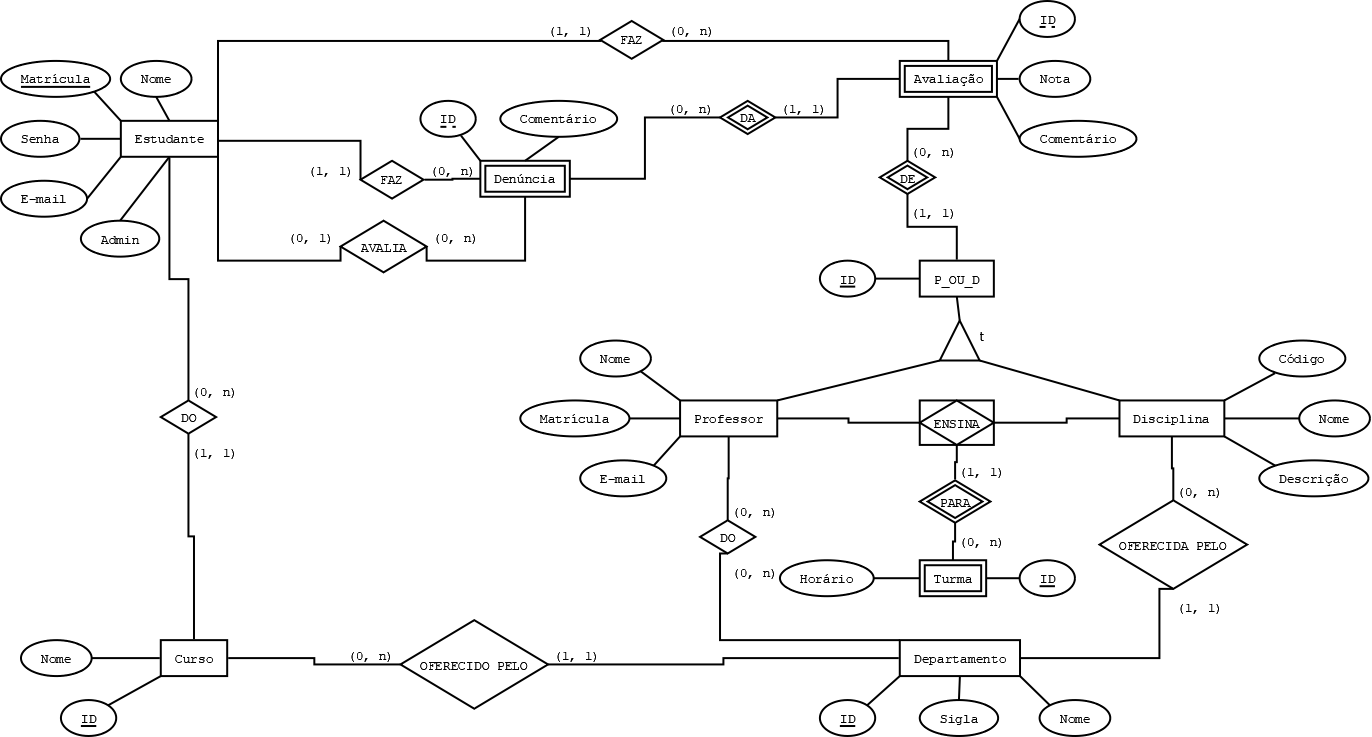
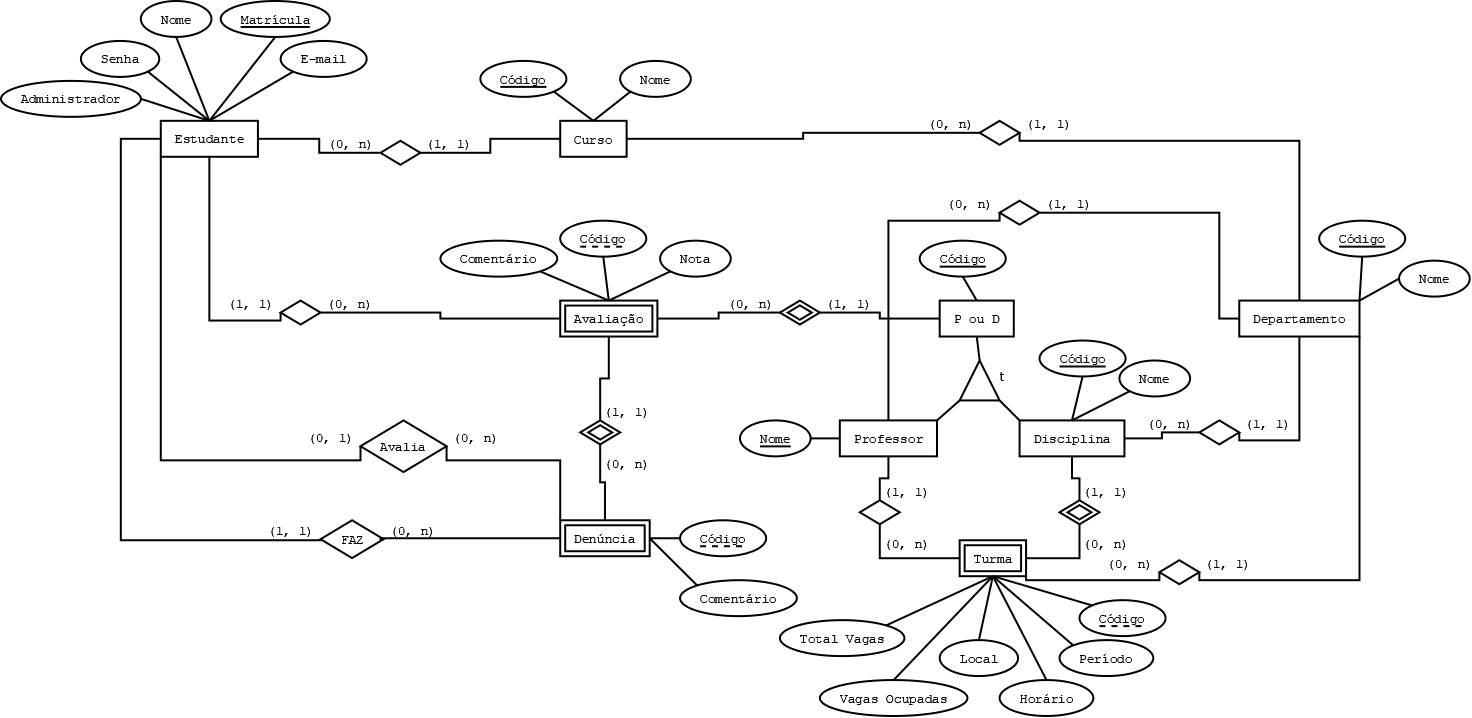
Updated models

diff --git a/src/main/kotlin/me/hrrocha0/avaliaunb/models/data/PouDDAO.kt b/src/main/kotlin/me/hrrocha0/avaliaunb/models/data/PouDDAO.kt
@@ -1,13 +1,13 @@
 package me.hrrocha0.avaliaunb.models.data
 
-import me.hrrocha0.avaliaunb.models.PouDModel
+import me.hrrocha0.avaliaunb.models.ProfessorOuDisciplinaModel
 import java.sql.ResultSet
 
-object PouDDAO : ReadWriteDAO<PouDModel> {
-    override fun create(model: PouDModel) = try {
+object PouDDAO : ReadWriteDAO<ProfessorOuDisciplinaModel> {
+    override fun create(model: ProfessorOuDisciplinaModel) = try {
         val sql = """
             INSERT INTO PouD
-            VALUES (${model.id})
+            VALUES (${model.codigo})
         """.trimIndent()
 
         executeSql(sql)
@@ -27,8 +27,8 @@ object PouDDAO : ReadWriteDAO<PouDModel> {
         null
     }
 
-    override fun update(model: PouDModel) = try {
-        val pouD = read(model.id.toString())
+    override fun update(model: ProfessorOuDisciplinaModel) = try {
+        val pouD = read(model.codigo.toString())
 
         // Update does nothing to PouD
         pouD
@@ -49,15 +49,15 @@ object PouDDAO : ReadWriteDAO<PouDModel> {
         null
     }
 
-    override fun index(predicate: (PouDModel) -> Boolean) = try {
+    override fun index(predicate: (ProfessorOuDisciplinaModel) -> Boolean) = try {
         val sql = "SELECT * FROM PouD"
         executeSql(sql).filter(predicate)
     } catch (e: Exception) {
         listOf()
     }
 
-    override fun transform(resultSet: ResultSet): PouDModel {
+    override fun transform(resultSet: ResultSet): ProfessorOuDisciplinaModel {
         val id = resultSet.getInt("id")
-        return PouDModel(id)
+        return ProfessorOuDisciplinaModel(id)
     }
 }

diff --git a/src/main/kotlin/me/hrrocha0/avaliaunb/models/data/DenunciaDAO.kt b/src/main/kotlin/me/hrrocha0/avaliaunb/models/data/DenunciaDAO.kt
@@ -7,7 +7,7 @@ object DenunciaDAO : ReadWriteDAO<DenunciaModel> {
     override fun create(model: DenunciaModel) = try {
         val sql = """
             INSERT INTO Denuncia
-            VALUES (${model.idPouD}, ${model.idAvaliacao}, ${model.id}, '${model.comentario}', '${model.matriculaEstudante}', '${model.matriculaAvaliador}')
+            VALUES (${model.codigoPouD}, ${model.codigoAvaliacao}, ${model.codigo}, '${model.comentario}', '${model.matriculaEstudante}', '${model.matriculaAdministrador}')
         """.trimIndent()
 
         executeSql(sql)
@@ -33,10 +33,10 @@ object DenunciaDAO : ReadWriteDAO<DenunciaModel> {
             UPDATE Denuncia
             SET comentario = '${model.comentario}',
                 matricula_estudante = '${model.matriculaEstudante}',
-                matricula_avaliador = '${model.matriculaAvaliador}'
-            WHERE id_p_ou_d = ${model.idPouD} AND id_avaliacao = ${model.idAvaliacao} AND id = ${model.id} 
+                matricula_avaliador = '${model.matriculaAdministrador}'
+            WHERE id_p_ou_d = ${model.codigoPouD} AND id_avaliacao = ${model.codigoAvaliacao} AND id = ${model.codigo} 
         """.trimIndent()
-        val denuncia = read("${model.idPouD},${model.idAvaliacao},${model.id}")
+        val denuncia = read("${model.codigoPouD},${model.codigoAvaliacao},${model.codigo}")
 
         executeSql(sql)
         denuncia

diff --git a/src/main/kotlin/me/hrrocha0/avaliaunb/models/data/EstudanteDAO.kt b/src/main/kotlin/me/hrrocha0/avaliaunb/models/data/EstudanteDAO.kt
@@ -7,7 +7,7 @@ object EstudanteDAO : ReadWriteDAO<EstudanteModel> {
     override fun create(model: EstudanteModel) = try {
         val sql = """
             INSERT INTO Estudante
-            VALUES ('${model.matricula}', '${model.nome}', '${model.email}', '${model.senha}', ${if (model.admin) 1 else 0}, ${model.idCurso})
+            VALUES ('${model.matricula}', '${model.nome}', '${model.email}', '${model.senha}', ${if (model.administrador) 1 else 0}, ${model.codigoCurso})
         """.trimIndent()
 
         executeSql(sql)
@@ -33,8 +33,8 @@ object EstudanteDAO : ReadWriteDAO<EstudanteModel> {
             SET nome = '${model.nome}',
                 email = '${model.email}',
                 senha = '${model.senha}',
-                admin = ${if (model.admin) 1 else 0},
-                id_curso = ${model.idCurso}
+                admin = ${if (model.administrador) 1 else 0},
+                id_curso = ${model.codigoCurso}
             WHERE matricula = '${model.matricula}' 
         """.trimIndent()
         val estudante = read(model.matricula)

diff --git a/src/main/kotlin/me/hrrocha0/avaliaunb/models/data/AvaliacaoDAO.kt b/src/main/kotlin/me/hrrocha0/avaliaunb/models/data/AvaliacaoDAO.kt
@@ -7,7 +7,7 @@ object AvaliacaoDAO : ReadWriteDAO<AvaliacaoModel> {
     override fun create(model: AvaliacaoModel) = try {
         val sql = """
             INSERT INTO Avaliacao
-            VALUES (${model.idPouD}, ${model.id}, ${model.nota}, '${model.comentario}', '${model.matriculaEstudante}')
+            VALUES (${model.codigoPouD}, ${model.codigo}, ${model.nota}, '${model.comentario}', '${model.matriculaEstudante}')
         """.trimIndent()
 
         executeSql(sql)
@@ -34,9 +34,9 @@ object AvaliacaoDAO : ReadWriteDAO<AvaliacaoModel> {
             SET nota = ${model.nota},
                 comentario = '${model.comentario}',
                 matricula_estudante = '${model.matriculaEstudante}'
-            WHERE id_p_ou_d = ${model.idPouD} AND id = ${model.id} 
+            WHERE id_p_ou_d = ${model.codigoPouD} AND id = ${model.codigo} 
         """.trimIndent()
-        val avaliacao = read("${model.idPouD},${model.id}")
+        val avaliacao = read("${model.codigoPouD},${model.codigo}")
 
         executeSql(sql)
         avaliacao

diff --git a/src/main/kotlin/me/hrrocha0/avaliaunb/models/data/DisciplinaDAO.kt b/src/main/kotlin/me/hrrocha0/avaliaunb/models/data/DisciplinaDAO.kt
@@ -7,7 +7,7 @@ object DisciplinaDAO : ReadWriteDAO<DisciplinaModel> {
     override fun create(model: DisciplinaModel) = try {
         val sql = """
             INSERT INTO Disciplina
-            VALUES (${model.id}, '${model.codigo}', '${model.nome}', '${model.descricao}', ${model.idDepartamento})
+            VALUES (${model.id}, '${model.codigo}', '${model.nome}', '${model.descricao}', ${model.codigoDepto})
         """.trimIndent()
 
         executeSql(sql)
@@ -33,7 +33,7 @@ object DisciplinaDAO : ReadWriteDAO<DisciplinaModel> {
             SET codigo = '${model.codigo}',
                 nome = '${model.nome}',
                 descricao = '${model.descricao}',
-                id_departamento = ${model.idDepartamento}
+                id_departamento = ${model.codigoDepto}
             WHERE id = ${model.id} 
         """.trimIndent()
         val disciplina = read(model.id.toString())

diff --git a/src/main/kotlin/me/hrrocha0/avaliaunb/models/TurmaModel.kt b/src/main/kotlin/me/hrrocha0/avaliaunb/models/TurmaModel.kt
@@ -1,15 +1,25 @@
 package me.hrrocha0.avaliaunb.models
 
 data class TurmaModel(
-    val idProfessor: Int,
-    val idDisciplina: Int,
-    val id: Int,
+    val codigoDisciplina: String,
+    val codigo: Int,
+    val periodo: String,
+    val nomeProfessor: String,
     val horario: String,
+    val vagasOcupadas: Int,
+    val totalVagas: Int,
+    val local: String,
+    val codigoDepto: Int,
 ) : Model {
     override fun toMap() = mapOf(
-        "id_professor" to idProfessor,
-        "id_disciplina" to idDisciplina,
-        "id" to id,
+        "codigo_disciplina" to codigoDisciplina,
+        "codigo" to codigo,
+        "periodo" to periodo,
+        "nome_professor" to nomeProfessor,
         "horario" to horario,
+        "vagas_ocupadas" to vagasOcupadas,
+        "total_vagas" to totalVagas,
+        "local" to local,
+        "codigo_depto" to codigoDepto,
     )
 }

diff --git a/src/main/kotlin/me/hrrocha0/avaliaunb/models/data/CursoDAO.kt b/src/main/kotlin/me/hrrocha0/avaliaunb/models/data/CursoDAO.kt
@@ -7,7 +7,7 @@ object CursoDAO : ReadWriteDAO<CursoModel> {
     override fun create(model: CursoModel) = try {
         val sql = """
             INSERT INTO Curso
-            VALUES (${model.id}, '${model.nome}', ${model.idDepartamento})
+            VALUES (${model.codigo}, '${model.nome}', ${model.codigoDepto})
         """.trimIndent()
 
         executeSql(sql)
@@ -31,10 +31,10 @@ object CursoDAO : ReadWriteDAO<CursoModel> {
         val sql = """
             UPDATE Curso
             SET nome = '${model.nome}',
-                id_departamento = ${model.idDepartamento}
-            WHERE id = ${model.id}
+                id_departamento = ${model.codigoDepto}
+            WHERE id = ${model.codigo}
         """.trimIndent()
-        val curso = read(model.id.toString())
+        val curso = read(model.codigo.toString())
 
         executeSql(sql)
         curso

diff --git a/src/main/kotlin/me/hrrocha0/avaliaunb/models/DenunciaModel.kt b/src/main/kotlin/me/hrrocha0/avaliaunb/models/DenunciaModel.kt
@@ -1,19 +1,19 @@
 package me.hrrocha0.avaliaunb.models
 
 data class DenunciaModel(
-    val idPouD: Int,
-    val idAvaliacao: Int,
-    val id: Int,
+    val codigoPouD: Int,
+    val codigoAvaliacao: Int,
+    val codigo: Int,
     val comentario: String,
     val matriculaEstudante: String,
-    val matriculaAvaliador: String,
+    val matriculaAdministrador: String,
 ) : Model {
     override fun toMap() = mapOf(
-        "id_p_ou_d" to idPouD,
-        "id_avaliacao" to idAvaliacao,
-        "id" to id,
+        "codigo_p_ou_d" to codigoPouD,
+        "codigo_avaliacao" to codigoAvaliacao,
+        "codigo" to codigo,
         "comentario" to comentario,
         "matricula_estudante" to matriculaEstudante,
-        "matricula_avaliador" to matriculaAvaliador,
+        "matricula_administrador" to matriculaAdministrador,
     )
 }

diff --git a/src/main/kotlin/me/hrrocha0/avaliaunb/models/data/DepartamentoDAO.kt b/src/main/kotlin/me/hrrocha0/avaliaunb/models/data/DepartamentoDAO.kt
@@ -7,7 +7,7 @@ object DepartamentoDAO : ReadWriteDAO<DepartamentoModel> {
     override fun create(model: DepartamentoModel) = try {
         val sql = """
             INSERT INTO Departamento
-            VALUES (${model.id}, '${model.sigla}', '${model.nome}')
+            VALUES (${model.codigo}, '${model.sigla}', '${model.nome}')
         """.trimIndent()
 
         executeSql(sql)
@@ -32,9 +32,9 @@ object DepartamentoDAO : ReadWriteDAO<DepartamentoModel> {
             UPDATE Departamento
             SET sigla = '${model.sigla}',
                 nome = '${model.nome}'
-            WHERE id = ${model.id} 
+            WHERE id = ${model.codigo} 
         """.trimIndent()
-        val departamento = read(model.id.toString())
+        val departamento = read(model.codigo.toString())
 
         executeSql(sql)
         departamento

diff --git a/src/main/kotlin/me/hrrocha0/avaliaunb/models/DisciplinaModel.kt b/src/main/kotlin/me/hrrocha0/avaliaunb/models/DisciplinaModel.kt
@@ -1,17 +1,15 @@
 package me.hrrocha0.avaliaunb.models
 
 data class DisciplinaModel(
-    val id: Int,
     val codigo: String,
     val nome: String,
-    val descricao: String,
-    val idDepartamento: Int,
+    val codigoDepto: Int,
+    val codigoPouD: Int,
 ) : Model {
     override fun toMap() = mapOf(
-        "id" to id,
         "codigo" to codigo,
         "nome" to nome,
-        "descricao" to descricao,
-        "id_departamento" to idDepartamento,
+        "codigo_depto" to codigoDepto,
+        "codigo_p_ou_d" to codigoPouD,
     )
 }

diff --git a/src/main/kotlin/me/hrrocha0/avaliaunb/models/AvaliacaoModel.kt b/src/main/kotlin/me/hrrocha0/avaliaunb/models/AvaliacaoModel.kt
@@ -1,15 +1,15 @@
 package me.hrrocha0.avaliaunb.models
 
 data class AvaliacaoModel(
-    val idPouD: Int,
-    val id: Int,
+    val codigoPouD: Int,
+    val codigo: Int,
     val nota: Int,
     val comentario: String,
     val matriculaEstudante: String
 ) : Model {
     override fun toMap() = mapOf(
-        "id_p_ou_d" to idPouD,
-        "id" to id,
+        "codigo_p_ou_d" to codigoPouD,
+        "codigo" to codigo,
         "nota" to nota,
         "comentario" to comentario,
         "matricula_estudante" to matriculaEstudante,

diff --git a/src/main/kotlin/me/hrrocha0/avaliaunb/models/EstudanteModel.kt b/src/main/kotlin/me/hrrocha0/avaliaunb/models/EstudanteModel.kt
@@ -5,15 +5,15 @@ data class EstudanteModel(
     val nome: String,
     val email: String,
     val senha: String,
-    val admin: Boolean,
-    val idCurso: Int,
+    val administrador: Boolean,
+    val codigoCurso: Int,
 ) : Model {
     override fun toMap() = mapOf(
         "matricula" to matricula,
         "nome" to nome,
         "email" to email,
         "senha" to senha,
-        "admin" to admin,
-        "id_curso" to idCurso
+        "admin" to administrador,
+        "codigo_curso" to codigoCurso
     )
 }
